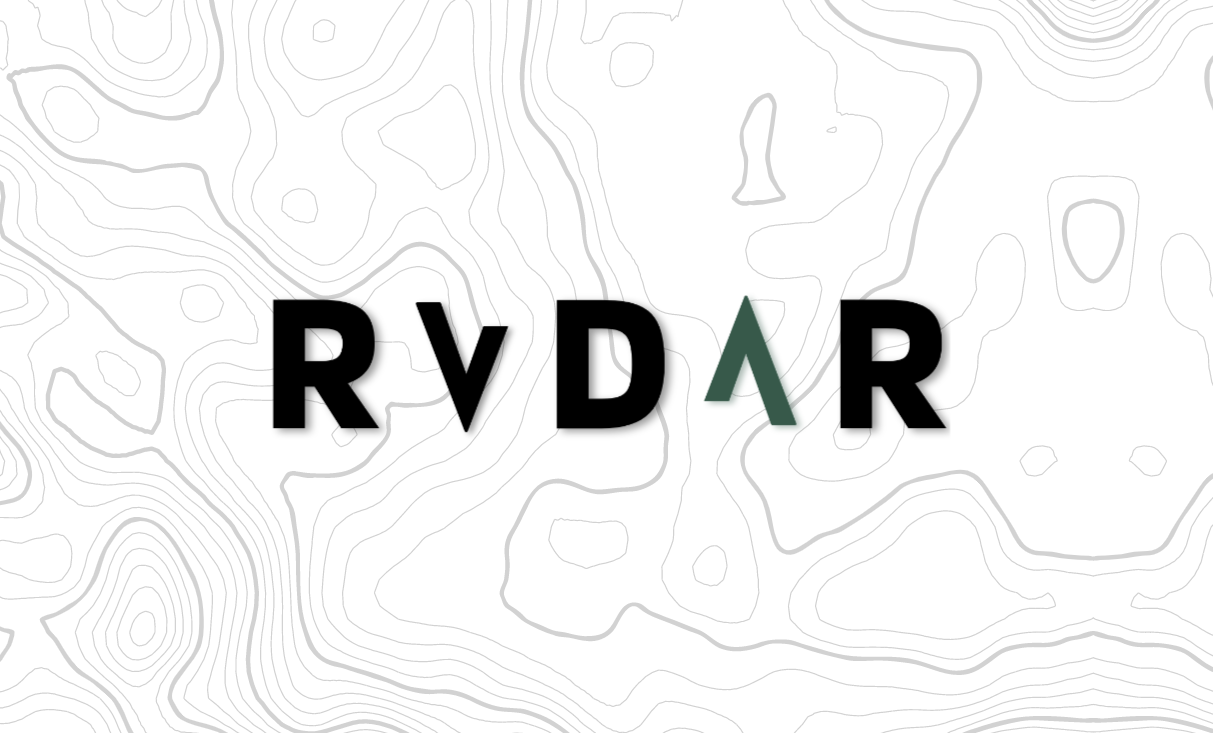
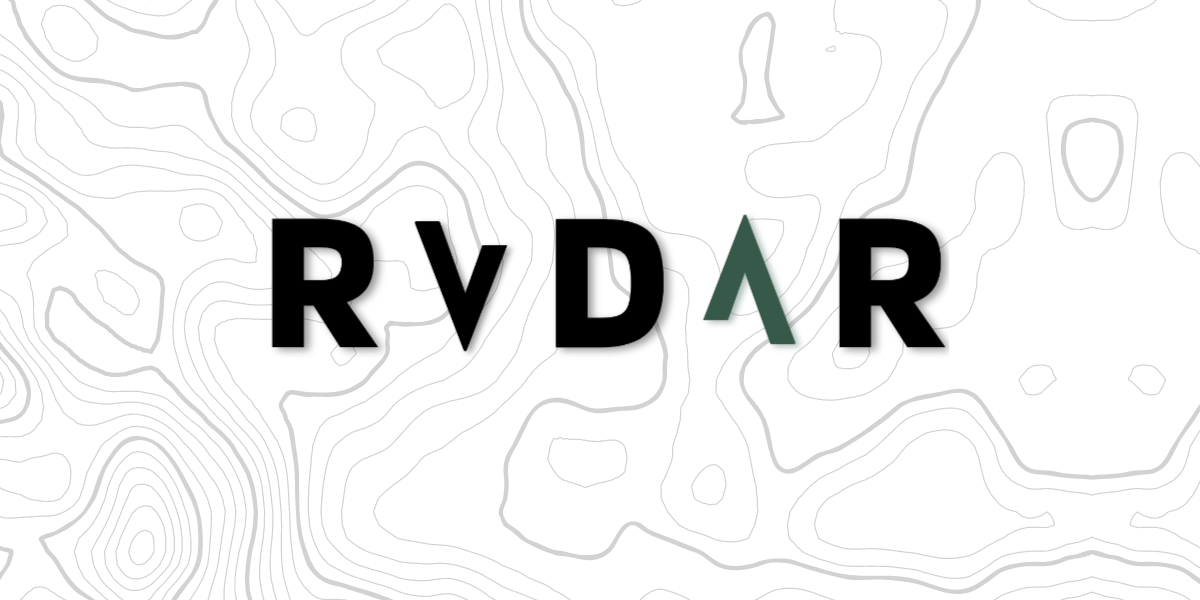
og image url

diff --git a/public/index.html b/public/index.html
@@ -9,7 +9,7 @@
     content="A tool to simplify the overwhelming and never ending to do list by helping you prioritize tasks into more manageable pieces.">
   <meta name="copyright" content="&copy;2022 RVDΛR" />
   <meta http-equiv="cache-control" content="no-cache"/>
-  <meta property="og:image" content="%PUBLIC_URL%/RVDVR-Preview.png"/>
+  <meta property="og:image" content="https://user-images.githubusercontent.com/89707381/200945050-5396af6e-675b-436a-8208-7a47cb5eb409.png"/>
   <link rel="icon" href="<%= BASE_URL %>RVDVR-favicon-32x32.png">
   <title>RVDΛR</title>
 </head>
